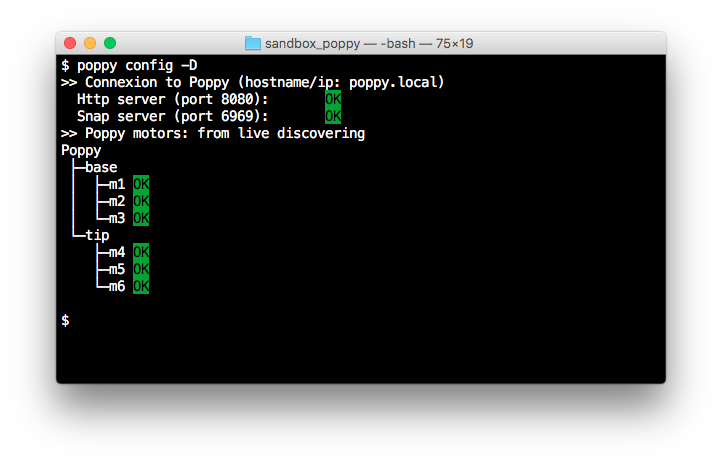
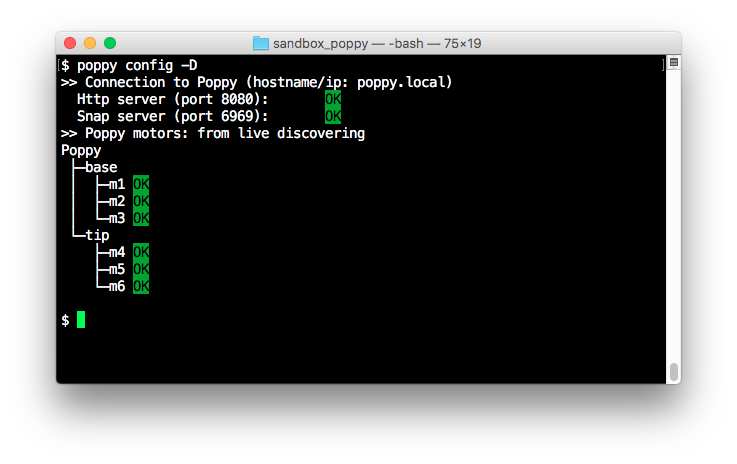
misc. update: spelling mistakes

diff --git a/bin/config-command.js b/bin/config-command.js
@@ -99,7 +99,7 @@ const main = async (argv, poppy) => {
     // First of all, let check connexion settings
     //
 
-    console.log(`>> Connexion to Poppy (hostname/ip: ${cnxSettings.ip})`);
+    console.log(`>> Connection to Poppy (hostname/ip: ${cnxSettings.ip})`);
 
     let cnxStatus = await _basicConnectionTest(requestHandler);
 
